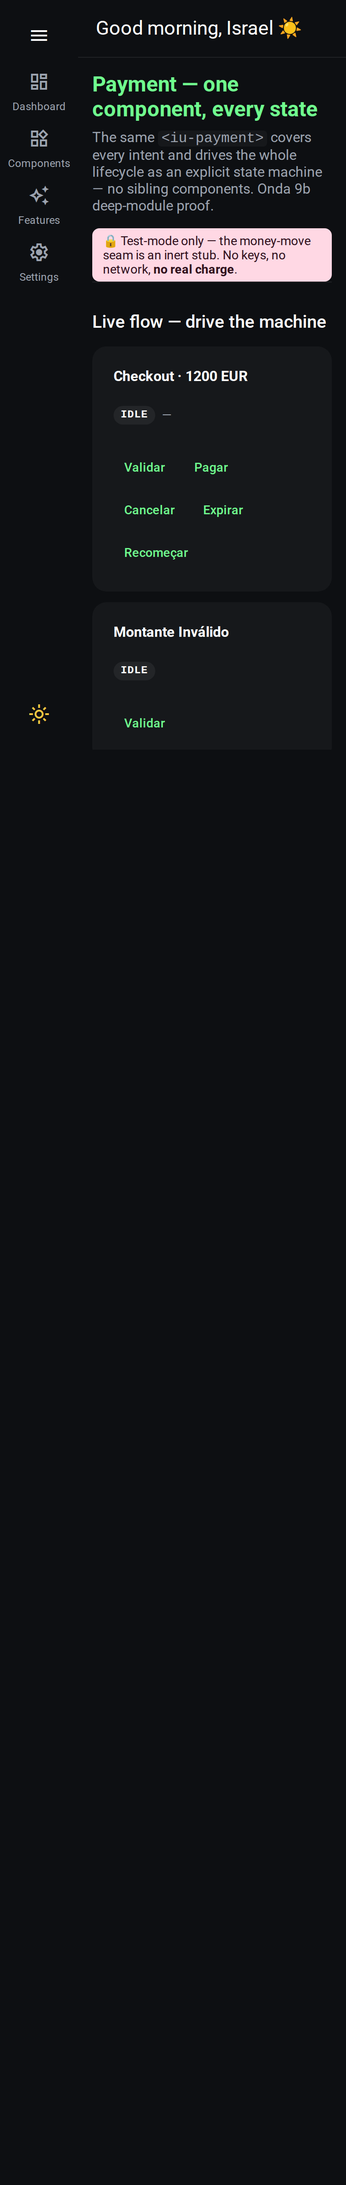
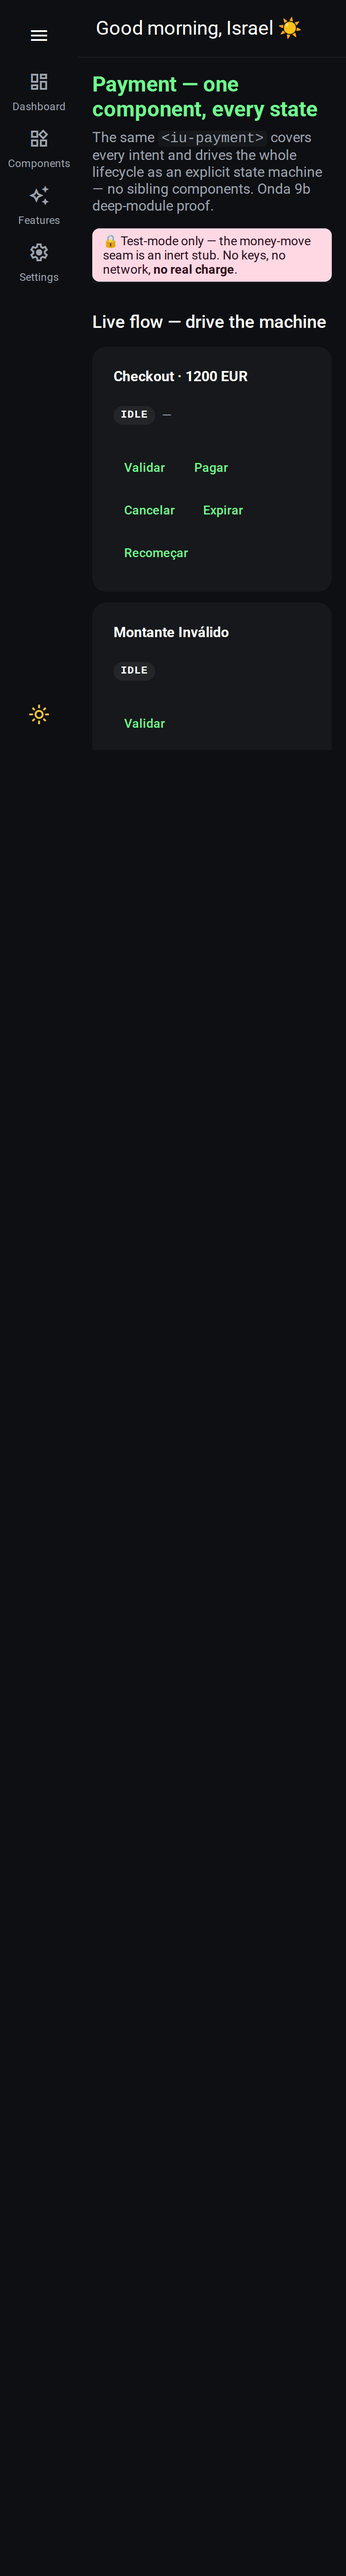
docs(payment-v2): showcase the summary kind + portfolio screenshots (NG-06)
Onda 9b NG-06 fatia C (mostrar). The /payment-showcase page gains a 'Kinds — one
component, four presentations' section rendering <iu-payment kind="summary">
(the folded checkout form) driving the real lifecycle machine in test mode.

- payment-showcase-page.component.ts: new summary section + demoSummary data.
- docs/portfolio: refreshed payment-showcase-{desktop,mobile}.png; added focused
  payment-summary-{desktop,mobile}.png (element-scoped capture of the checkout card).
- README Portfolio: documents the four kinds + summary-card images.

Proof (PROVA-marco-onda9b-2026-09-15.md, in the coding repo): payment went shallow→deep
across NG-06 — components 4->1, selectors 4->1, it() 88->121, branches 64->84, e2e 0->6;
control (button) byte-identical. Gates: nx build core + nx build dashboard green (test core
unaffected — dashboard/docs only). PAYMENT_V2 OFF, no real money.

diff --git a/apps/dashboard/src/app/pages/payment-showcase-page.component.ts b/apps/dashboard/src/app/pages/payment-showcase-page.component.ts
@@ -4,7 +4,7 @@ import {
   CUSTOM_ELEMENTS_SCHEMA,
 } from '@angular/core';
 import { ButtonComponent, DividerComponent, PaymentComponent } from '@israel-ui/core';
-import type { PaymentIntentKind, PaymentState } from '@israel-ui/core';
+import type { BookingPaymentSummary, PaymentIntentKind, PaymentState } from '@israel-ui/core';
 import { FeatureFlags } from '../feature-flags';
 
 /**
@@ -189,6 +189,31 @@ import { FeatureFlags } from '../feature-flags';
             </div>
           </div>
         </section>
+
+        <iu-divider></iu-divider>
+
+        <!-- ═══ PRESENTATIONAL / FLOW KINDS ═══ -->
+        <section aria-labelledby="sc-kinds">
+          <h2 id="sc-kinds">Kinds — one component, four presentations</h2>
+          <p class="subtitle">
+            The same <code>&lt;iu-payment&gt;</code> renders four
+            <code>kind</code>s. Onda 9b (NG-06) folded the former sibling
+            components in: <code>summary</code> is the checkout collection form
+            (was <code>iu-payment-summary-card</code>) and, unlike the
+            presentational kinds, it drives the real lifecycle machine on
+            confirm — still test-mode, no real charge.
+          </p>
+          <div class="group" data-testid="kinds">
+            <div class="row">
+              <iu-payment
+                kind="summary"
+                [summary]="demoSummary"
+                class="cell--wide"
+                data-testid="kind-summary"
+              />
+            </div>
+          </div>
+        </section>
       </div>
     }
   `,
@@ -316,6 +341,23 @@ export class PaymentShowcasePageComponent {
     'expired',
     'cancelled',
   ];
+
+  /** Demo booking breakdown for the `summary` (checkout) kind. Test-mode data. */
+  protected readonly demoSummary: BookingPaymentSummary = {
+    propertyTitle: 'Apartamento T2 no Chiado',
+    propertyAddress: 'Rua do Alecrim 45, Lisboa',
+    checkIn: '2026-04-01',
+    months: 6,
+    currency: 'EUR',
+    depositAmount: 1200,
+    total: 8200,
+    lineItems: [
+      { label: 'Renda mensal × 6 meses', amount: 7200, type: 'charge' },
+      { label: 'Taxa de serviço LisboaRent', amount: 200, type: 'fee' },
+      { label: 'Depósito de garantia (1 mês)', amount: 1200, type: 'deposit' },
+      { label: 'Desconto de longa-duração (5%)', amount: 400, type: 'discount' },
+    ],
+  };
 
   /** Last state the live-flow card emitted — kept for future telemetry/debug. */
   protected lastState: PaymentState = 'idle';

diff --git a/README.md b/README.md
@@ -59,6 +59,15 @@ lines up the three intents and seeds every lifecycle state on one screen:
 |---|---|
 | ![payment showcase — desktop](docs/portfolio/payment-showcase-desktop.png) | <img src="docs/portfolio/payment-showcase-mobile.png" alt="payment showcase — mobile" width="220"> |
 
+**Four `kind`s, one component.** Onda 9b (NG-06) folded the former sibling components into `<iu-payment>`
+as `kind`s (`flow` · `receipt` · `confirmation` · `summary`), so the barrel shrinks while the behaviour
+grows. The `summary` kind is the checkout collection form (was `iu-payment-summary-card`) and, unlike the
+presentational kinds, it *drives the real lifecycle machine* on confirm:
+
+| `kind="summary"` — desktop | Mobile |
+|---|---|
+| <img src="docs/portfolio/payment-summary-desktop.png" alt="payment summary kind — desktop" width="380"> | <img src="docs/portfolio/payment-summary-mobile.png" alt="payment summary kind — mobile" width="220"> |
+
 > 🔒 **Test-mode only.** The money-move seam is an inert stub — no keys, no network, no real charge.
 > Production adoption is gated behind the `PAYMENT_V2` flag (OFF); the showcase rides its own
 > `PAYMENT_SHOWCASE` flag so the proof is visible without touching real payments.
